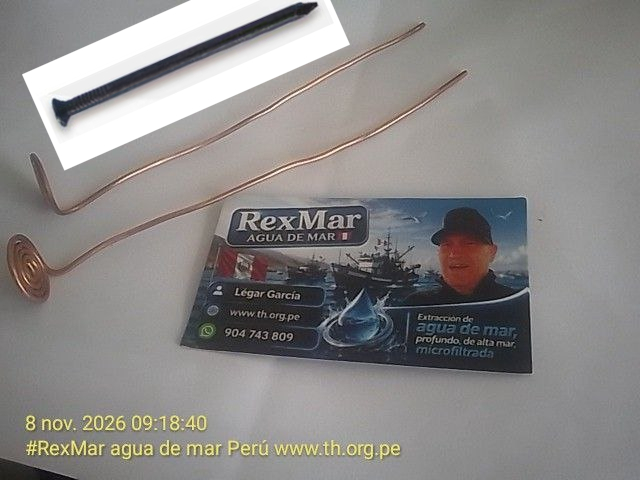
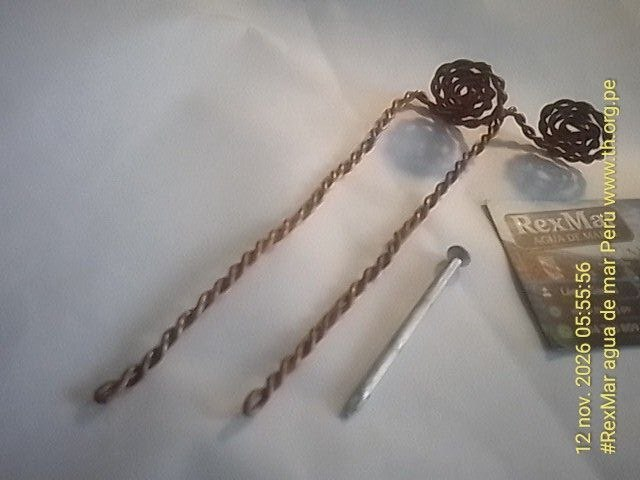
Todo pipi cucu

diff --git a/content/rexcobre-artesanias/barefoot.md b/content/rexcobre-artesanias/barefoot.md
@@ -36,9 +36,8 @@ Rumble("play", {"video":"v7g178k","div":"rumble_v7g178k"});</script>
 - 2 alambres calibre 14 AWG tensionados (tecnología de Slim Spuring) con espiral Egipcia en un lado (lado de tierra), cortados a la medida del antiguo Codo Sagrado Egipcio.
 - 1 clavo acero para hacer los agujeros
 
-![Puesta a tierra calibre 14 AWG](/images/atierrakit-21.jpg)
-![Puesta a tierra calibre 14 AWG](/images/atierrakit-22.jpg)
-![Puesta a tierra calibre 14 AWG](/images/atierrakit-23.jpg)
+![Puesta a tierra calibre 14 AWG](/images/atierrakit-1.jpg)
+![Puesta a tierra calibre 14 AWG](/images/atierrakit-2.jpg)
 
 # Instrucciones paso a paso para colocarlo en su calzado
 
